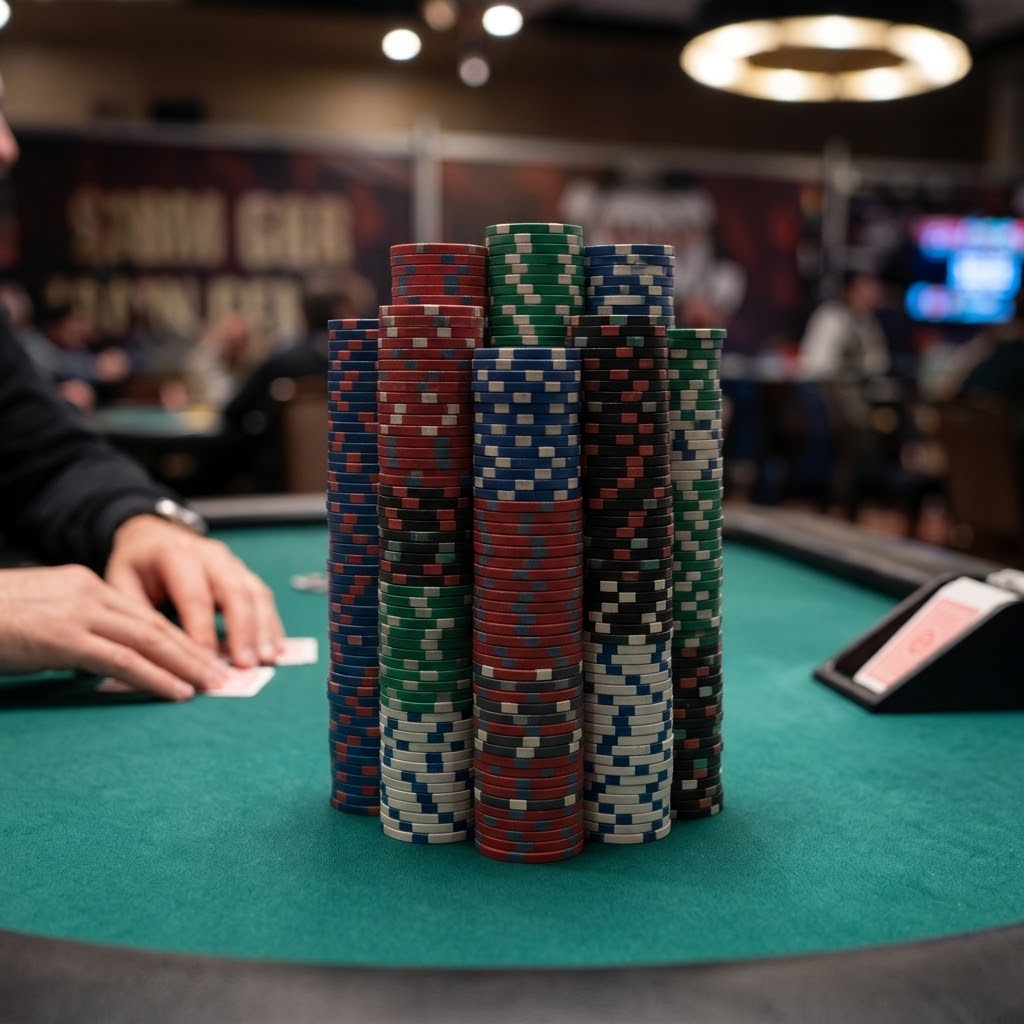
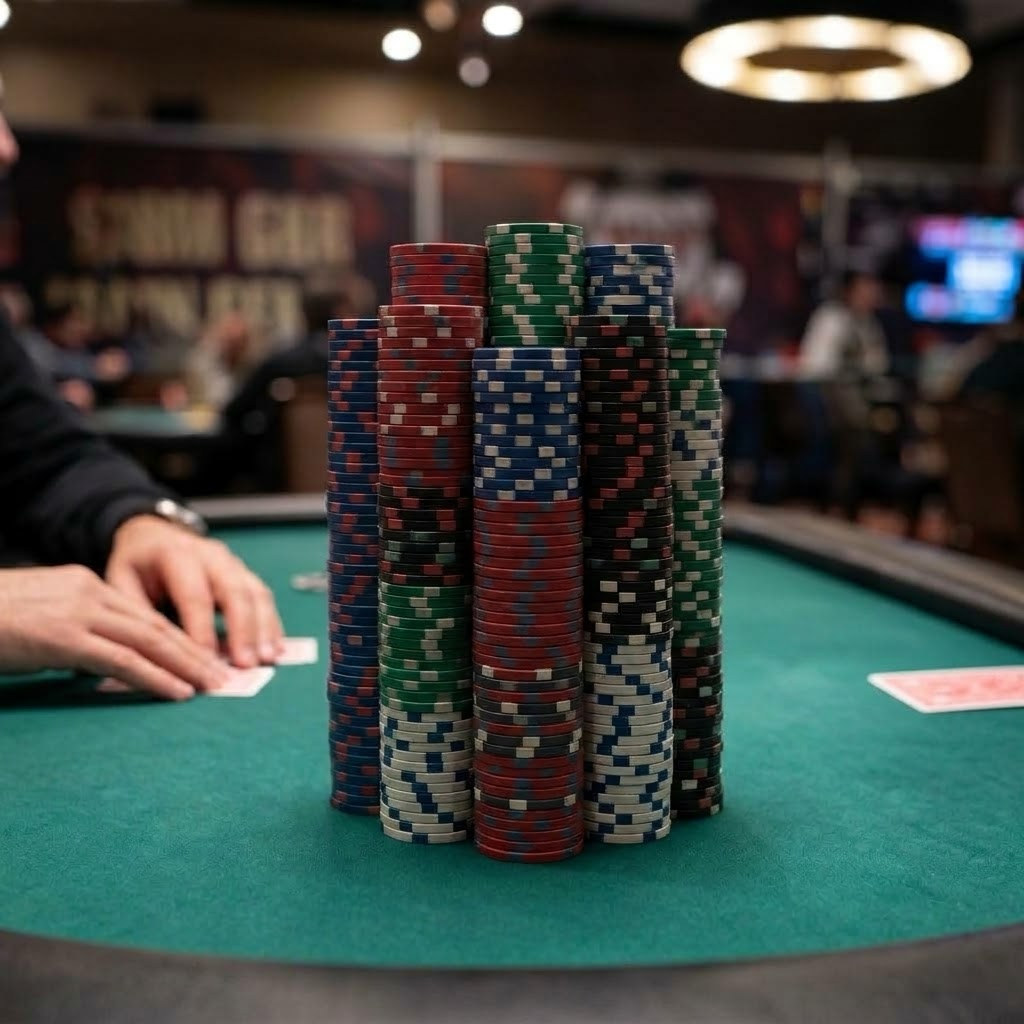
Updated image. make reseat look better

Changed region(s): [[0.7812, 0.5312, 1.0, 0.7188]]

diff --git a/frontend/lib/features/tournament/presentation/tournament_screen.dart b/frontend/lib/features/tournament/presentation/tournament_screen.dart
@@ -279,50 +279,50 @@ class _TournamentScreenState extends ConsumerState<TournamentScreen> {
     // A break is a banner rather than a dialog: it is orienting information, not
     // something to stop the game and read. A dialog every time the field
     // consolidates would be intolerable in a large event.
+    //
+    // Arrivals (someone else joining your table) no longer get a banner at
+    // all — the arriving seat turns white for its first hand instead (see
+    // `SeatView.isNewToTable`/`PlayerSeat`), which says the same thing without
+    // interrupting play. Only your *own* table breaking (you move somewhere
+    // else) is still worth a banner, since that's something you need to
+    // orient to, not just notice.
     final brk = state.tour?.tableBreak;
     if (brk != null && !identical(brk, _lastTableBreak)) {
       _lastTableBreak = brk;
-      final you = brk.moves.where((m) => m.isHuman).firstOrNull;
-      final others = brk.moves.where((m) => !m.isHuman).toList();
-      final String title;
-      final String? detail;
-      if (!brk.broke) {
-        title = brk.arrivals.length == 1
-            ? '${brk.arrivals.first} has joined your table.'
-            : '${brk.arrivals.length} players have joined your table.';
-        detail = brk.arrivals.length == 1 ? null : brk.arrivals.join(', ');
-      } else {
-        title =
+      if (brk.broke) {
+        final you = brk.moves.where((m) => m.isHuman).firstOrNull;
+        final others = brk.moves.where((m) => !m.isHuman).toList();
+        final title =
             'Your table has broken. '
             '${you == null ? '' : 'You move to table ${you.toTable}, '
                       'seat ${you.toSeat + 1}.'}';
-        detail = others.isEmpty
+        final detail = others.isEmpty
             ? null
             : others
                       .take(9)
                       .map((m) => '${m.name} → T${m.toTable}')
                       .join('   ') +
                   (others.length > 9 ? '   +${others.length - 9} more' : '');
-      }
-      ScaffoldMessenger.of(context)
-        ..clearSnackBars()
-        ..showSnackBar(
-          SnackBar(
-            duration: const Duration(seconds: 6),
-            content: Column(
-              crossAxisAlignment: CrossAxisAlignment.start,
-              mainAxisSize: MainAxisSize.min,
-              children: [
-                Text(
-                  title,
-                  style: const TextStyle(fontWeight: FontWeight.w600),
-                ),
-                if (detail != null)
-                  Text(detail, style: const TextStyle(fontSize: 11)),
-              ],
+        ScaffoldMessenger.of(context)
+          ..clearSnackBars()
+          ..showSnackBar(
+            SnackBar(
+              duration: const Duration(seconds: 6),
+              content: Column(
+                crossAxisAlignment: CrossAxisAlignment.start,
+                mainAxisSize: MainAxisSize.min,
+                children: [
+                  Text(
+                    title,
+                    style: const TextStyle(fontWeight: FontWeight.w600),
+                  ),
+                  if (detail != null)
+                    Text(detail, style: const TextStyle(fontSize: 11)),
+                ],
+              ),
             ),
-          ),
-        );
+          );
+      }
     }
     final recap = state.tour?.recap;
     if (recap != null && !identical(recap, _lastRecap)) {

diff --git a/frontend/lib/features/table/presentation/widgets/player_seat.dart b/frontend/lib/features/table/presentation/widgets/player_seat.dart
@@ -257,14 +257,14 @@ class _PlayerSeatState extends State<PlayerSeat> {
       padding: const EdgeInsets.all(8),
       decoration: BoxDecoration(
         color: seat.isNewToTable
-            ? Colors.grey.withValues(alpha: 0.15)
+            ? Colors.white.withValues(alpha: 0.22)
             : (highlight
                   ? AppTheme.gold.withValues(alpha: 0.18)
                   : (tint ?? Colors.black26)),
         borderRadius: BorderRadius.circular(14),
         border: Border.all(
           color: seat.isNewToTable
-              ? Colors.grey.withValues(alpha: 0.4)
+              ? Colors.white.withValues(alpha: 0.6)
               : (highlight
                     ? AppTheme.gold
                     : (kind == null
